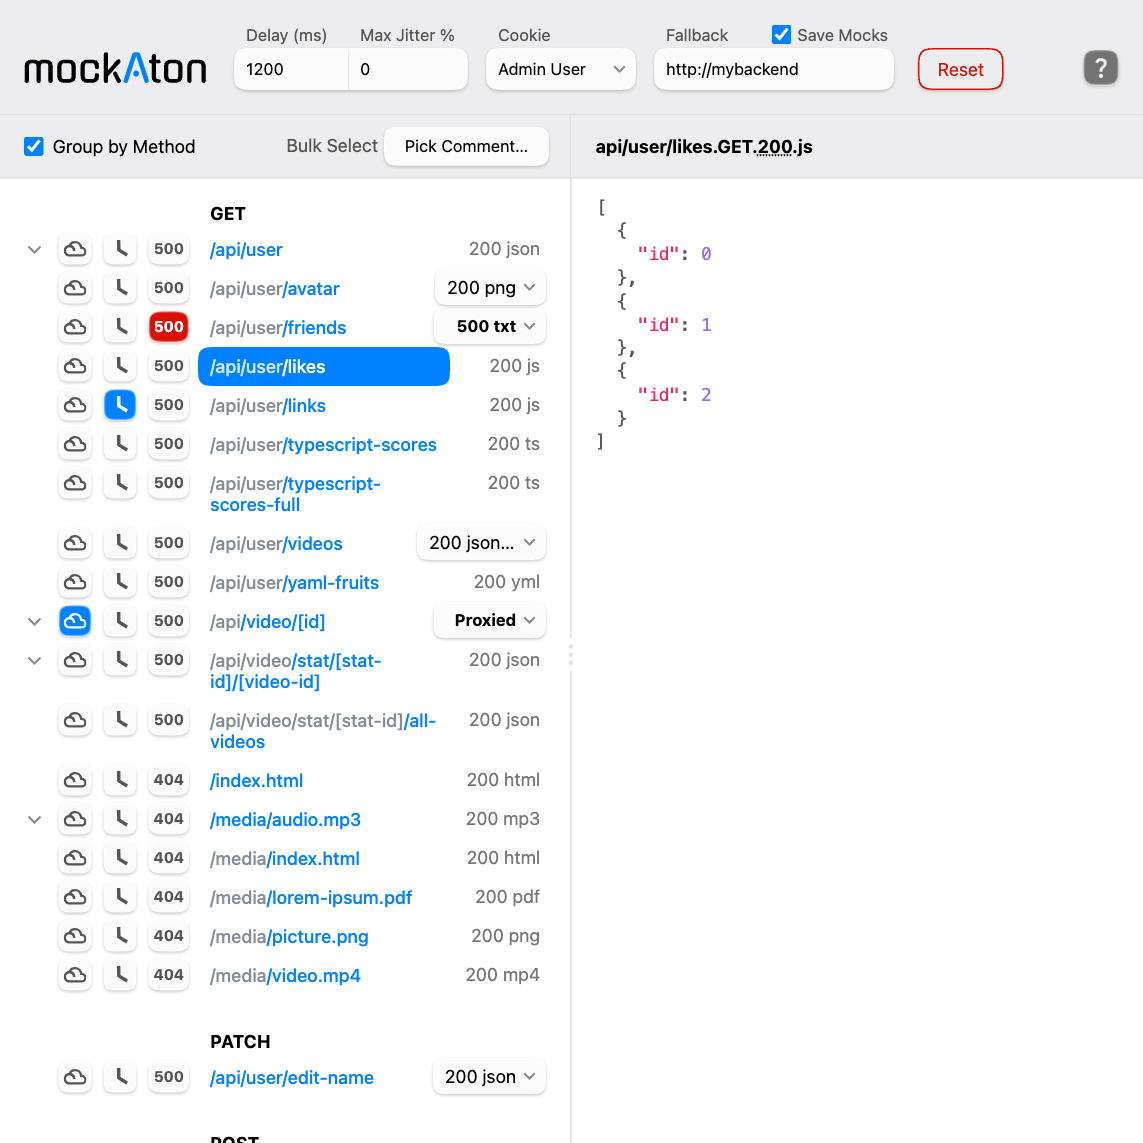
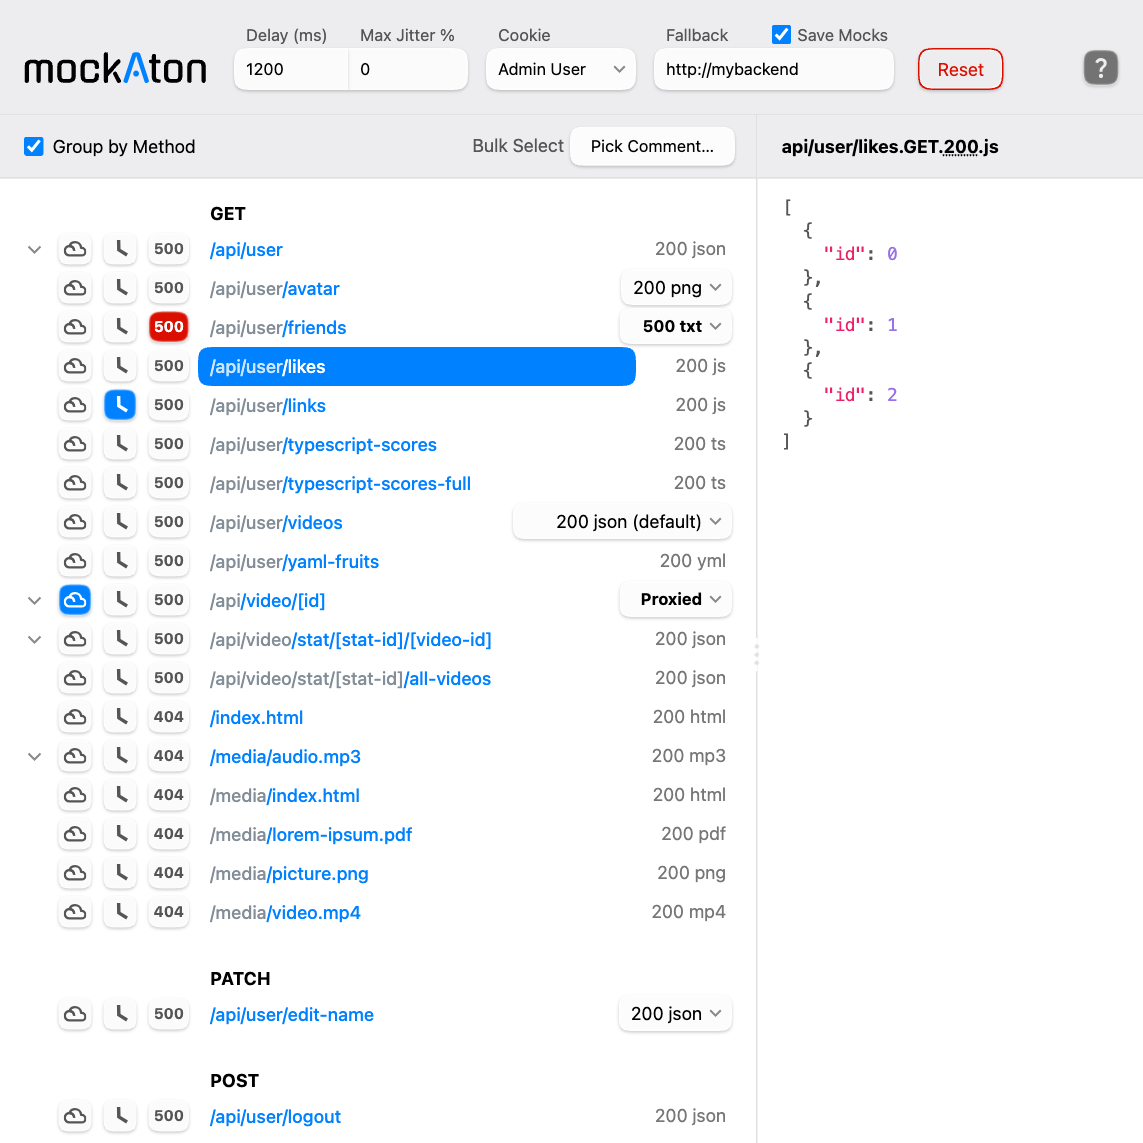
fix pic-for-readme test

diff --git a/pixaton-tests/tests/pic-for-readme.test.js b/pixaton-tests/tests/pic-for-readme.test.js
@@ -1,5 +1,5 @@
 import { mockaton } from '../setup.js'
-import { clickLinkByText, testPixels } from '../utils.js'
+import { clickLinkByText, testPixels, sleep } from '../utils.js'
 
 
 testPixels(import.meta.filename, {
@@ -18,6 +18,7 @@ testPixels(import.meta.filename, {
 
 	async setup(page) {
 		await clickLinkByText('/api/user/likes')
+		await sleep(50)
 		await page.evaluate(() => {
 			const el = document.querySelector('.leftSide')
 			if (el) el.style.width = '505px'

diff --git a/pixaton-tests/utils.js b/pixaton-tests/utils.js
@@ -25,3 +25,7 @@ export async function clickBySelector(selector) {
 	await page.waitForSelector(selector)
 	await page.locator(selector).click()
 }
+
+export function sleep(ms = 0) {
+	return new Promise(resolve => setTimeout(resolve, ms))
+}
